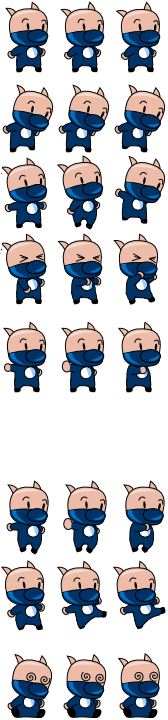
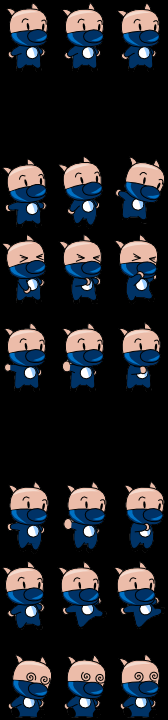
Patrolling pig, will add to wait at the end

diff --git a/NotSoSuperMario/Model/Enemy/Enemy.cs b/NotSoSuperMario/Model/Enemy/Enemy.cs
@@ -1,65 +1,125 @@
-using Microsoft.Xna.Framework;
-using NotSoSuperMario.Model.GameObjects;
-using NotSoSuperMario.View;
-using System;
-
-namespace NotSoSuperMario.Model.Enemy
+namespace NotSoSuperMario.Model.Enemy
 {
+    using Microsoft.Xna.Framework;
+    using NotSoSuperMario.Controller;
+    using NotSoSuperMario.Model.GameObjects;
+    using NotSoSuperMario.View;
+    using System;
+    using System.Collections.Generic;
+
     public enum EnemyStates
     {
         IDLE,
         WALK
     }
 
-    class Enemy
+    public class Enemy
     {
         private const float MAX_WAIT_TIME = 0.5f;
-        private const float MOVE_SPEED = 64.0f;
-
-        private enum FaceDirection
-        {
-            Left = -1,
-            Right = 1,
-        }
+        private const float MOVE_ACCELERATION = 0.15f;
+        private const float MAX_MOVE_SPEED = 2f;
 
         private float waitTime;
-        private Animation animation;
-        private Rectangle localBounds;
-        private FaceDirection direction = FaceDirection.Left;
+        private Vector2 velocity;
+        private bool isGrounded;
 
-        public Enemy(Vector2 position, bool isFacingRight)
+        public Enemy(Vector2 position, Rectangle boundingBounds, bool isFacingRight)
         {
             this.State = EnemyStates.IDLE;
             this.Position = position;
             this.IsAlive = true;
+            this.isGrounded = false;
+            this.BoundingBounds = boundingBounds;
             this.IsFacingRight = isFacingRight;
         }
 
-        // Gets a rectangle which bounds this enemy in the world space.
-        //public Rectangle BoundingRectangle
-        //{
-        //    get
-        //    {
-        //        int left = (int)Math.Round(Position.X - animation.Origin.X) + localBounds.X;
-        //        int top = (int)Math.Round(Position.Y - animation.Origin.Y) + localBounds.Y;
+        public void Patrolling(List<Block> blocks)
+        {
+            this.State = EnemyStates.IDLE;
+            this.HandleBottomCollision(blocks);
+            this.CheckBounds();
+            this.Position += this.velocity;
+        }
 
-        //        return new Rectangle(left, top, localBounds.Width, localBounds.Height);
-        //    }
-        //}
+        private void CheckBounds()
+        {
+            float elapsed = (float)Globals.GameTime.ElapsedGameTime.TotalSeconds;
 
-        //public void CalculateBlockPosition()
-        //{
-        //    float positionX = Position.X + localBounds.Width / 2 * (int)direction;
-        //    int blockX = (int)Math.Floor(positionX / block.)
-        //}
+            if (this.BoundingBounds == null)
+            {
+                return;
+            }
+
+            if (this.Bounds.Left <= this.BoundingBounds.X)
+            {
+                // Wait for some amount of time.
+                this.waitTime = Math.Max(0.0f, waitTime - (float)Globals.GameTime.ElapsedGameTime.TotalSeconds);
+                this.State = EnemyStates.IDLE;
+                if (this.waitTime <= 0.0f)
+                {
+                    // Then turn around.
+                    this.State = EnemyStates.WALK;
+                    this.IsFacingRight = true;
+                }
+                this.velocity = new Vector2(this.velocity.X + MAX_MOVE_SPEED, this.velocity.Y);
+                
+            }
+            else if(this.Bounds.Right >= this.BoundingBounds.Right)
+            {
+                // Wait for some amount of time.
+                this.waitTime = Math.Max(0.0f, waitTime - (float)Globals.GameTime.ElapsedGameTime.TotalSeconds);
+                this.State = EnemyStates.IDLE;
+                if (this.waitTime <= 0.0f)
+                {
+                    // Then turn around.
+                    this.IsFacingRight = false;      
+                    this.State = EnemyStates.WALK;
+                }
+                this.velocity = new Vector2(this.velocity.X - MAX_MOVE_SPEED, this.velocity.Y);
+                
+            }           
+
+        }
+
+        private void HandleBottomCollision(List<Block> blocks)
+        {
+            this.isGrounded = false;
+            this.ApplyGravity();
+
+            foreach (var block in blocks)
+            {
+                if (this.IsOnTopOf(block.Bounds))
+                {
+                    this.isGrounded = true;
+                    this.velocity = new Vector2(this.velocity.X, 0);
+                }
+            }
+        }
+
+        private bool IsOnTopOf(Rectangle rect)
+        {
+            return (this.Bounds.Bottom + this.velocity.Y >= rect.Top - 10) &&
+                this.Bounds.Bottom + this.velocity.Y <= rect.Top &&
+                this.Bounds.Right >= rect.Left + 4 &&
+                this.Bounds.Left <= rect.Right - 4;
+        }
+
+        private void ApplyGravity()
+        {
+            this.velocity = new Vector2(this.velocity.X, this.velocity.Y + 0.15f);
+        }        
 
         public bool IsAlive { get; private set; }
+
+        public Rectangle Bounds { get; set; }
+
+        public Rectangle BoundingBounds { get; set; }
 
         public Vector2 Position { get; set; }
 
         public bool IsFacingRight { get; set; }
 
-        public EnemyStates State { get; set; }
+        public EnemyStates State { get; private set; }
 
 
     }

diff --git a/NotSoSuperMario/Controller/States/UpdateState.cs b/NotSoSuperMario/Controller/States/UpdateState.cs
@@ -29,7 +29,7 @@
         {
             isPlaying = true;
             this.level = new LevelOne();
-            this.enemy = new Enemy(new Vector2(45, 800), true);
+            this.enemy = new Enemy(new Vector2(45, 900), new Rectangle(50, 0, 300, 0), true);
             if (playerData == null)
             {
                 this.player = new Player(Keys.Left, Keys.Right, Keys.Up, Keys.Space, new Vector2(45, 760), true);
@@ -75,7 +75,7 @@
                 this.UpdatePlayer();
                 this.PauseGame();
                 camera.Update(player.Position, Globals.Graphics.PreferredBackBufferWidth, Globals.Graphics.PreferredBackBufferHeight);
-                this.PlayerAttack();
+                //this.PlayerAttack();
             }
 
             foreach (KeyboardButtonState key in this.inputHandler.ActiveKeys)
@@ -128,6 +128,12 @@
             this.enemyAnimation.Update();
             this.enemyAnimation.Position = this.enemy.Position;
             this.enemyAnimation.IsFacingRight = this.enemy.IsFacingRight;
+            this.enemy.Bounds = new Rectangle((int)this.enemy.Position.X, (int)this.enemy.Position.Y,
+                (int)(this.enemyAnimation.SourceRectangle.Width),
+                (int)(this.enemyAnimation.SourceRectangle.Height * 0.9));
+            this.enemyAnimation.ChangeAnimation(this.enemy.State.ToString());
+            this.enemy.Patrolling(this.level.Blocks);
+
         }
 
         private void PlayerAttack()
@@ -135,26 +141,26 @@
             if (this.player.IsAttacking)
             {
                 this.player.IsAttacking = false;
-        
-                //Vector2 shurikenPosition = new Vector2();
-        
-                //if (this.player.IsFacingRight)
-                //{
-                //    shurikenPosition = new Vector2(this.player.Bounds.Right,
-                //        this.player.Position.Y + (this.player.Bounds.Height * 0.2f));
-                //}
-                //else
-                //{
-                //    shurikenPosition = new Vector2(this.player.Bounds.Left - 40,
-                //        this.player.Position.Y + (this.player.Bounds.Height * 0.2f));
-                //}
-        
-                //Shuriken newShuriken = new Shuriken(shurikenPosition, this.player.IsFacingRight);
-                //this.level.ListOfShurikens.Add(newShuriken);
-                //
-                //Sprite shurikenSprite = UIFactory.CreateSprite("Hero/shuriken", 0.15f);
-                //this.shurikenSprites.Add(shurikenSprite);
-                //this.SpriteInState.Add(shurikenSprite);
+
+                Vector2 shurikenPosition = new Vector2();
+
+                if (this.player.IsFacingRight)
+                {
+                    shurikenPosition = new Vector2(this.player.Bounds.Right,
+                        this.player.Position.Y + (this.player.Bounds.Height * 0.2f));
+                }
+                else
+                {
+                    shurikenPosition = new Vector2(this.player.Bounds.Left - 40,
+                        this.player.Position.Y + (this.player.Bounds.Height * 0.2f));
+                }
+
+                Shuriken newShuriken = new Shuriken(shurikenPosition, this.player.IsFacingRight);
+                this.level.ListOfShurikens.Add(newShuriken);
+
+                Sprite shurikenSprite = UIFactory.CreateSprite("Hero/shuriken", 0.15f);
+                this.shurikenSprites.Add(shurikenSprite);
+                this.SpriteInState.Add(shurikenSprite);
             }
         }
 

diff --git a/NotSoSuperMario/Model/Level/Level.cs b/NotSoSuperMario/Model/Level/Level.cs
@@ -2,6 +2,7 @@
 {
     using Microsoft.Xna.Framework;
     using NotSoSuperMario.Model.GameObjects;
+    using NotSoSuperMario.Model.Enemy;
     using NotSoSuperMario.View.UI;
     using System.Collections.Generic;
     using System.IO;
@@ -14,6 +15,7 @@
         private int row = 0;
         private int width;
         private int height;
+        private List<Enemy> enemies = new List<Enemy>();
 
         public Level()
         {
@@ -76,6 +78,9 @@
                             break;
                         case 4:
                             this.Blocks.Add(new Block(new Vector2(col * size, row * size), BlockType.tile_4));
+                            break;
+                        case 5:
+                            this.Blocks.Add(new Block(new Vector2(col * size, row * size), BlockType.enemyPig));
                             break;
                     }
                     width = (col + 1) * size;

diff --git a/NotSoSuperMario/View/UI/AnimationFactory.cs b/NotSoSuperMario/View/UI/AnimationFactory.cs
@@ -25,10 +25,10 @@
 
         public static Animation CreateEnemyAnimaton(Color tint)
         {
-            Animation currentAnimation = new Animation(new Vector2(55, 84), Globals.Content.Load<Texture2D>("Enemies/EnemyPig"), 60);
+            Animation currentAnimation = new Animation(new Vector2(55, 84), Globals.Content.Load<Texture2D>("Enemies/EnemyPig"), 120);
             currentAnimation.AnimationStates = new List<AnimationState>();
             currentAnimation.AnimationStates.Add(new AnimationState(EnemyStates.IDLE.ToString(), new Vector2(55, 84), 2, 0));
-            currentAnimation.AnimationStates.Add(new AnimationState(EnemyStates.WALK.ToString(), new Vector2(55, 84), 2, 6));
+            currentAnimation.AnimationStates.Add(new AnimationState(EnemyStates.WALK.ToString(), new Vector2(55, 78), 2, 6));
 
             currentAnimation.Tint = tint;
             currentAnimation.ChangeAnimation("IDLE");

diff --git a/NotSoSuperMario/Model/GameObjects/Block.cs b/NotSoSuperMario/Model/GameObjects/Block.cs
@@ -7,7 +7,8 @@
         tile_1,
         tile_2,
         tile_3,
-        tile_4
+        tile_4,
+        enemyPig,
     }
 
     public class Block : GameObject
